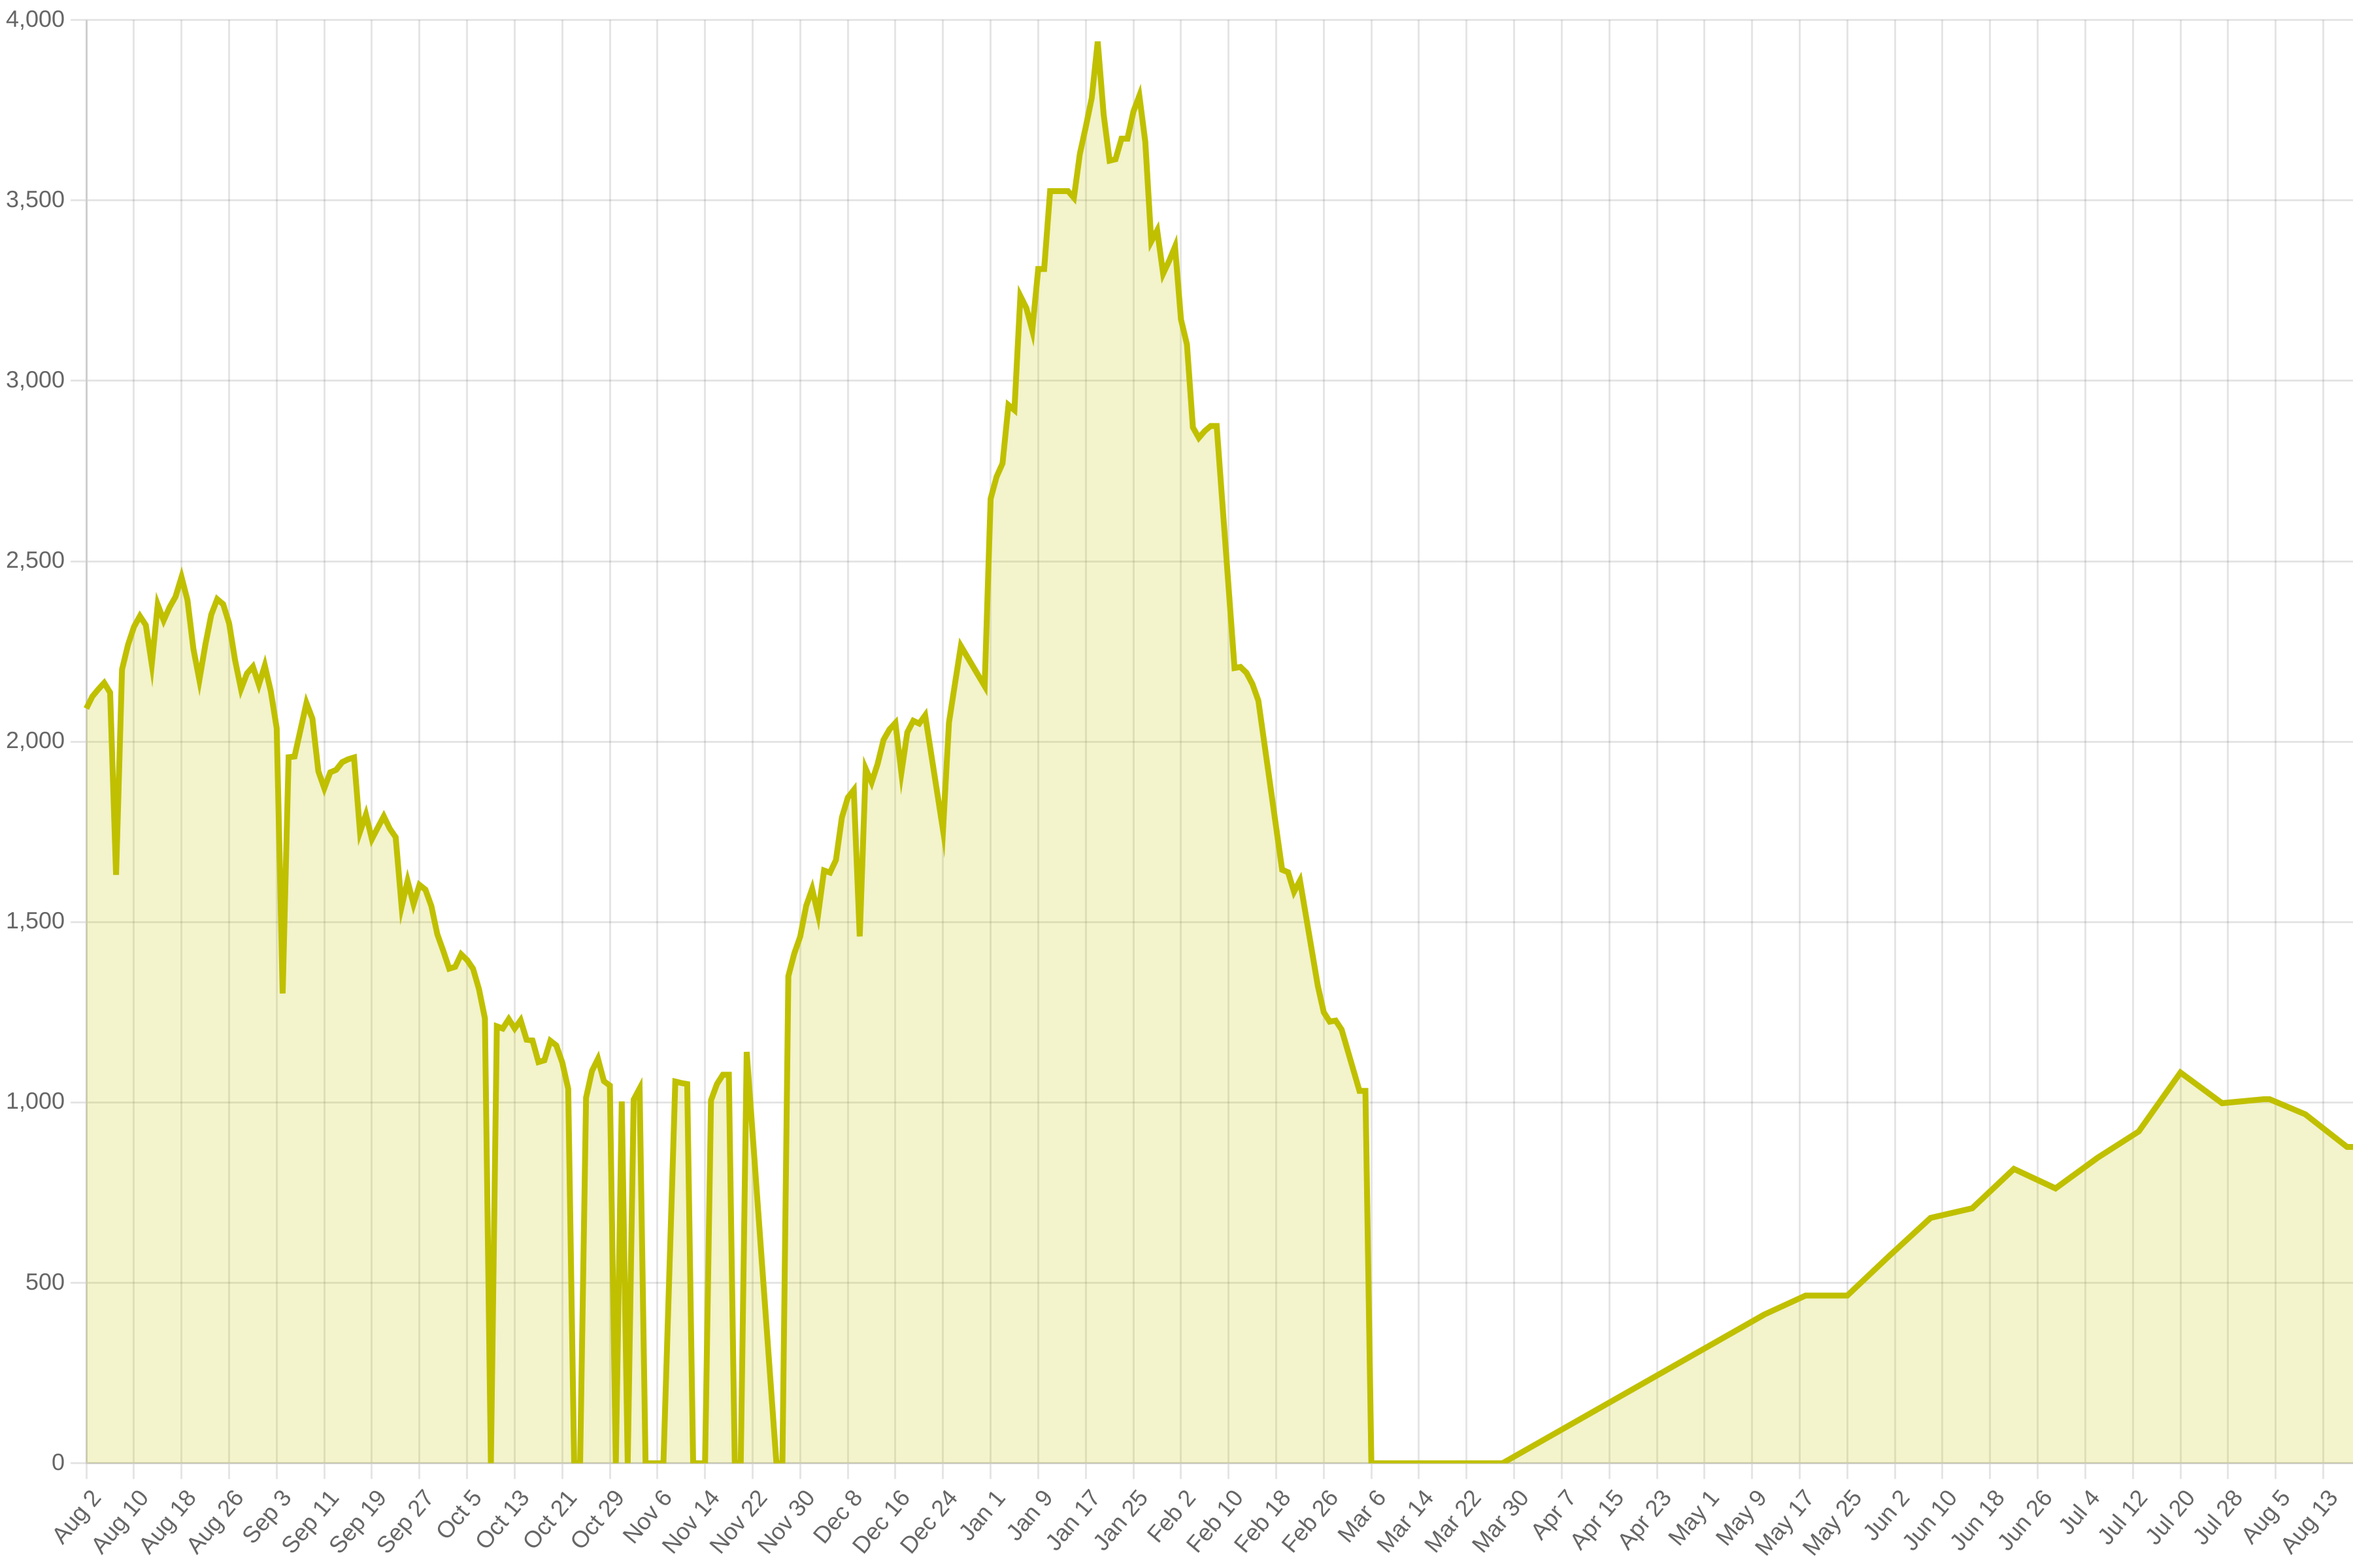
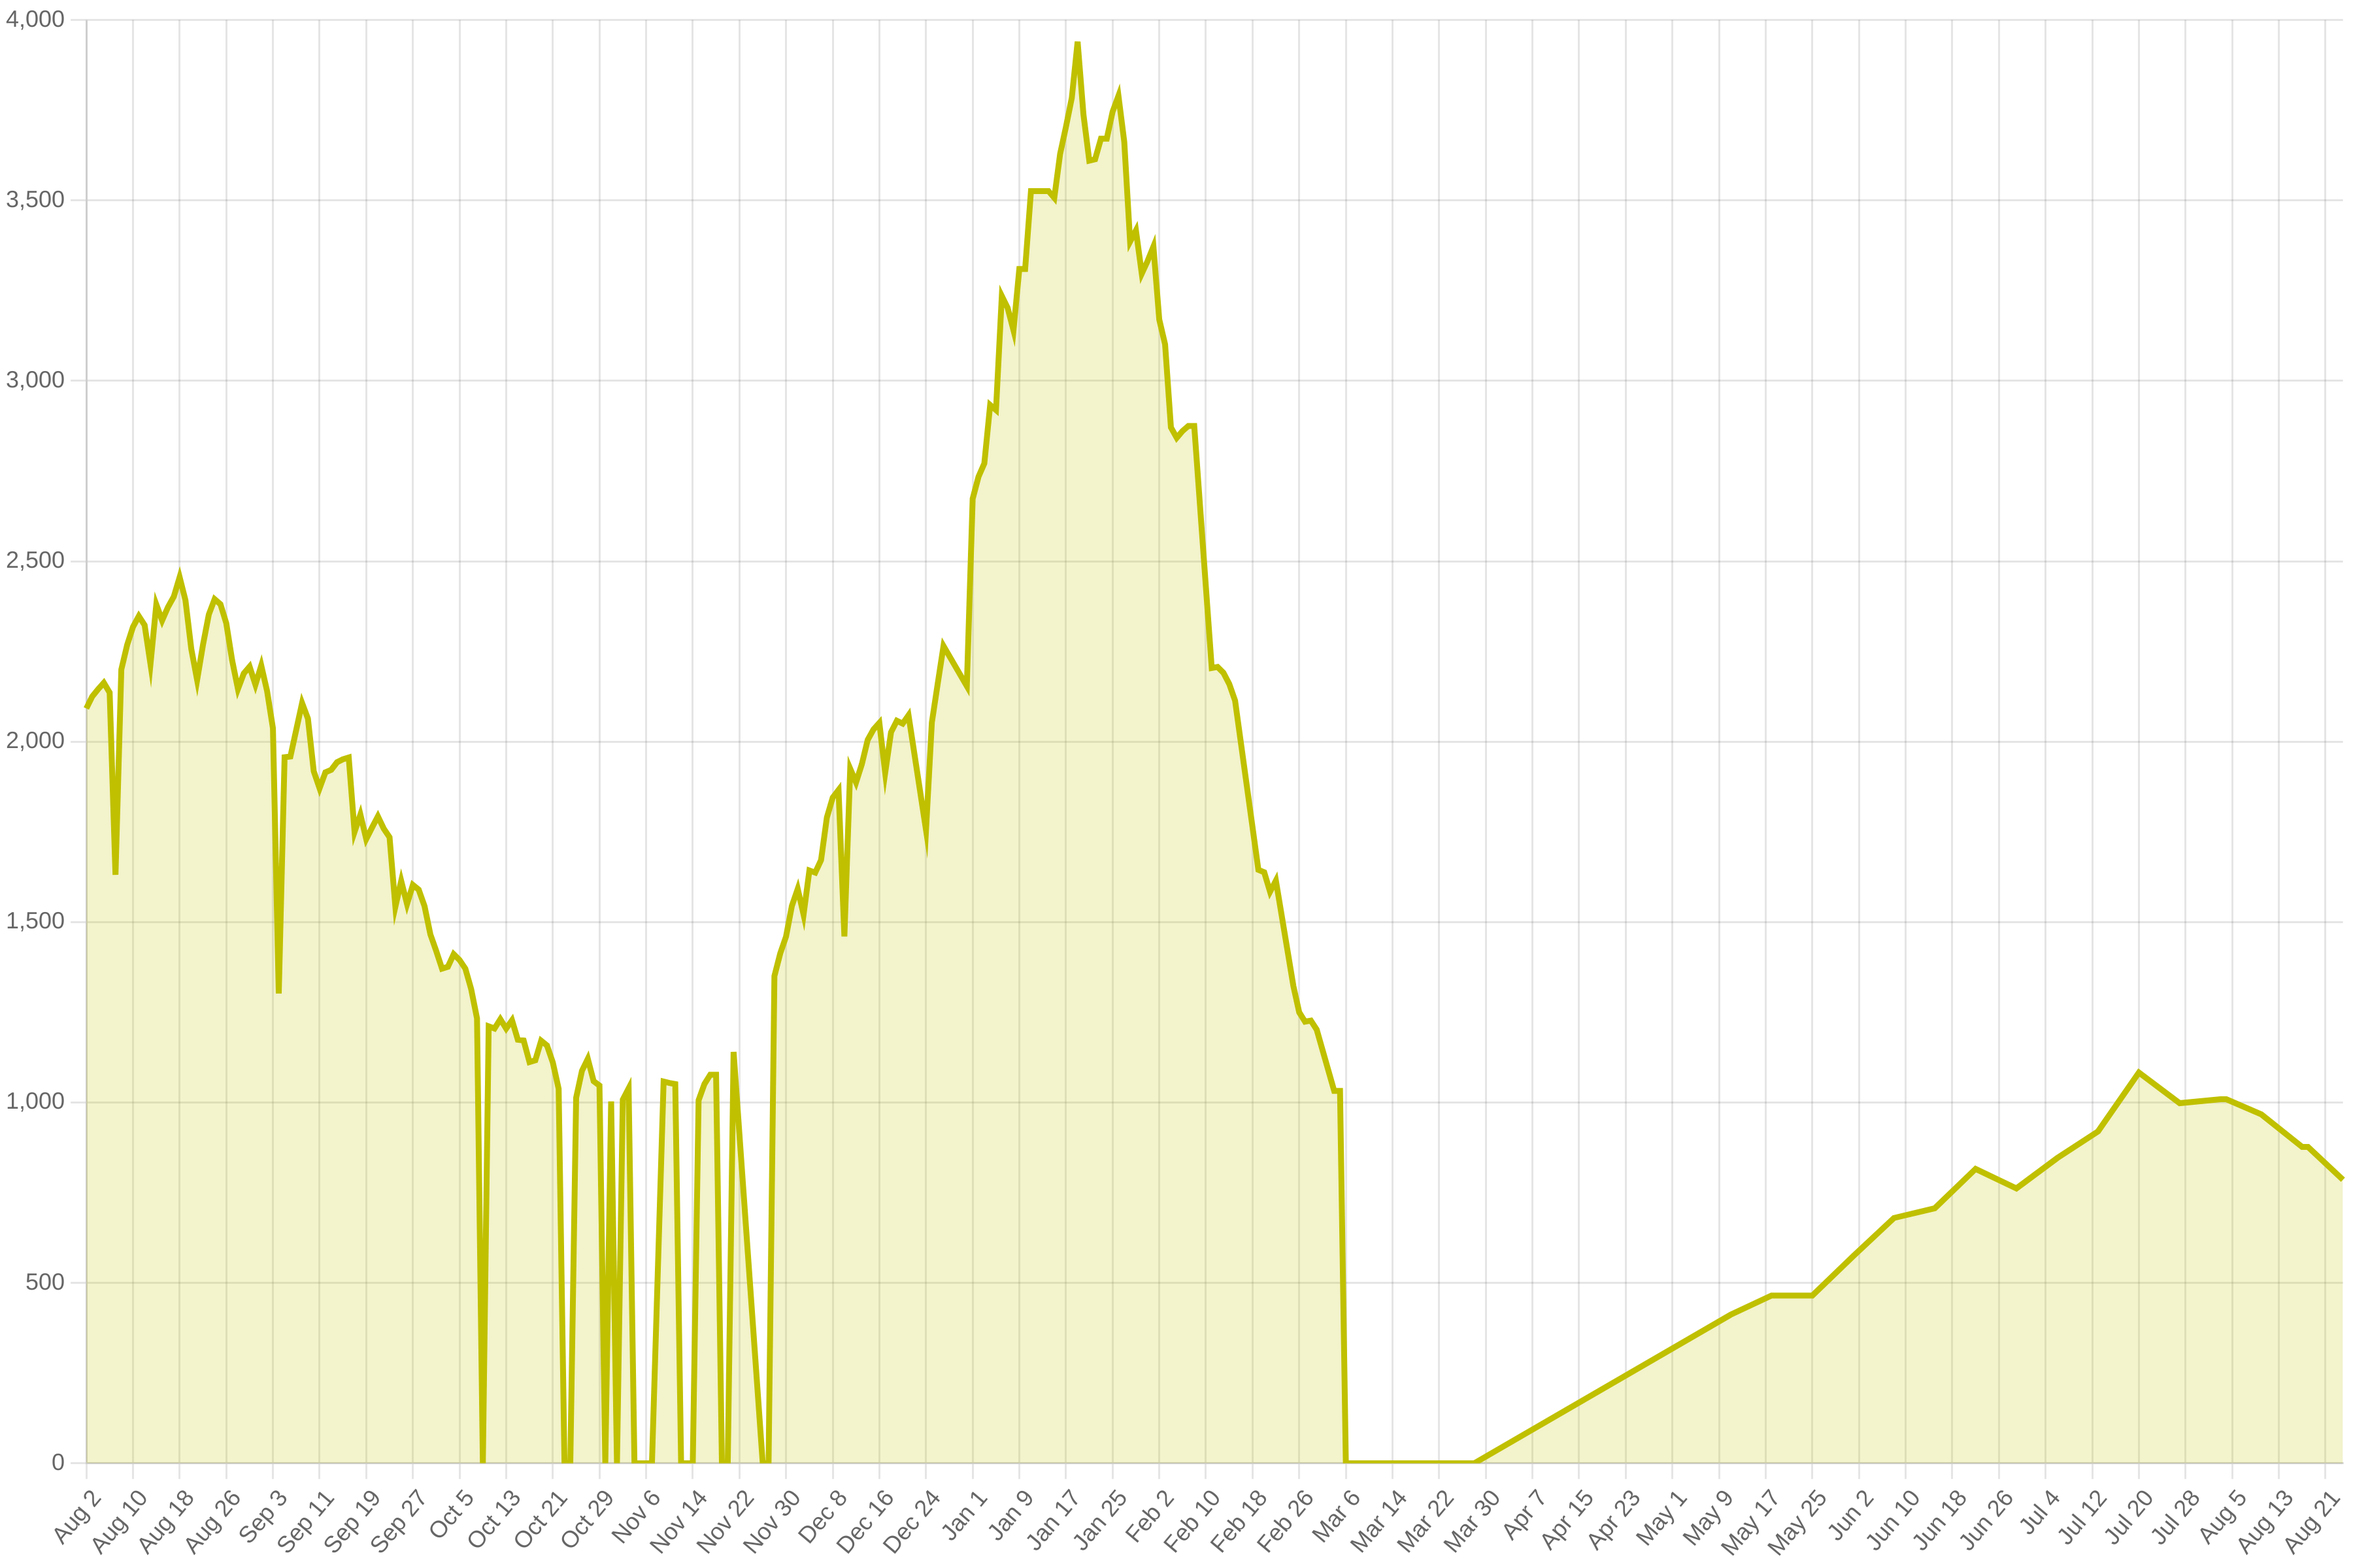
regular update

Changed region(s): [[0.0622, 0.0312, 1.0, 1.0], [0.0622, 0.0312, 0.1867, 0.625]]

diff --git a/docs/index.html b/docs/index.html
@@ -43,10 +43,10 @@
     <main>
       <h1>Missouri COVID data</h1>
       <p>
-        The data on this page was updated <strong>Saturday, August 20, 2022</strong>. For
+        The data on this page was updated <strong>Friday, August 26, 2022</strong>. For
         the values that are averages over 7 days, the start date is
-        <strong>Friday, August 12, 2022</strong> and the end date is
-        <strong>Thursday, August 18, 2022</strong>. The original data comes from the
+        <strong>Thursday, August 18, 2022</strong> and the end date is
+        <strong>Wednesday, August 24, 2022</strong>. The original data comes from the
         <a
           href="https://results.mo.gov/t/COVID19/views/WeeklyCOVIDMockup_16487370423730/WeeklyReport-Revised-v2?:embed=y&:showVizHome=no&:host_url=https%3A%2F%2Fresults.mo.gov%2F&:embed_code_version=3&:tabs=no&:toolbar=no&:showAppBanner=false&:display_spinner=no&:loadOrderID=0"
           >Missouri Department of Health and Senior Services</a
@@ -79,19 +79,19 @@
 
       <h2>New cases</h2>
       <p>
-        There have been <strong>7,236</strong> new cases in the
-        past 7 days, about <strong>1,034 per day</strong>.
+        There have been <strong>7,951</strong> new cases in the
+        past 7 days, about <strong>1,136 per day</strong>.
       </p>
       <img src="charts/totalPositive.png" />
 
       <h2>Outcomes</h2>
       <p>
-        There are currently 877 people hospitalized with
+        There are currently 786 people hospitalized with
         COVID-19.
       </p>
       <img src="charts/hospitalizations.png" />
 
-      <p>90 people are in intensive care.</p>
+      <p>96 people are in intensive care.</p>
       <img src="charts/icu.png" />
 
       <h2>Unavailable</h2>
